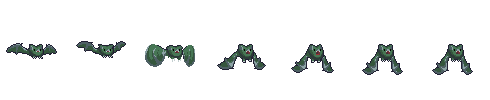
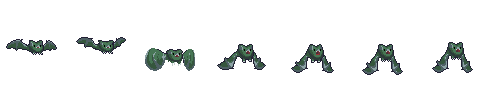
악세서리 수정 및 이미지 수정
악세서리 내용수정

Changed region(s): [[0.1531, 0.36, 0.398, 0.72], [0.8571, 0.42, 0.9796, 0.75], [0.0, 0.39, 0.1224, 0.6]]

diff --git a/Dungreed/watCher.cpp b/Dungreed/watCher.cpp
@@ -63,21 +63,17 @@ void watCher::update(Player * player, float const elapsedTime)
 	_ani->frameUpdate(elapsedTime);
 	_anglePos.x = cosf(_angle) * _radius;
 	_anglePos.y = -sinf(_angle) * _radius;
-	
-}
-
-void watCher::backRender(Player * player)
-{
-	
-	
 	_renderPos = player->getPosition();
 	_renderPos.x = _renderPos.x + _anglePos.x + 2;
 	_renderPos.y = _renderPos.y + _anglePos.y - 22;
 	Vector2 size = Vector2(_img->getFrameSize().x * 2, _img->getFrameSize().y * 2);
-	_crash = rectMakePivot(Vector2(_renderPos.x, _renderPos.y + 25), size, PIVOT::CENTER);
+	_crash = rectMakePivot(Vector2(_renderPos.x, _renderPos.y + 25), size, PIVOT::CENTER);	
+}
+
+void watCher::backRender(Player * player)
+{	
+	
 	D2D_RENDERER->drawRectangle(CAMERA->getRelativeFR(_crash));
-
-
 	_img->setScale(4);	
 	_img->aniRender(CAMERA->getRelativeV2(Vector2(_renderPos)), _ani, false);
 	

diff --git a/Dungreed/miniEarth.cpp b/Dungreed/miniEarth.cpp
@@ -35,22 +35,24 @@ void miniEarth::update(Player * player, float const elapsedTime)
 		_img->getMaxFrameX(), _img->getMaxFrameY());
 	_ani->setFPS(10);
 	_ani->setPlayFrame(0, _img->getMaxFrameX(), false, true);
+	_x = cosf(_angle) * 40;
+	_y = -sinf(_angle) * 40;
+
+	_renderPos = player->getPosition();
+	_renderPos.x = _renderPos.x + _x;
+	_renderPos.y = _renderPos.y + _y - 20;
 }
 
 void miniEarth::backRender(Player * player)
 {
-	_x = cosf(_angle) * 55;
-	_y = -sinf(_angle) * 55;
+	
 
-	Vector2 renderPos = player->getPosition();
-	renderPos.x = renderPos.x + _x;
-	renderPos.y = renderPos.y + _y - 20;
-	_img->setScale(4);
-	_img->aniRender(CAMERA->getRelativeV2(renderPos), _ani, false);
 }
 
 void miniEarth::frontRender(Player * player)
 {
+	_img->setScale(4);
+	_img->aniRender(CAMERA->getRelativeV2(_renderPos), _ani, false);
 }
 
 void miniEarth::displayInfo()

diff --git a/Dungreed/miniEarth.h b/Dungreed/miniEarth.h
@@ -5,7 +5,7 @@ class miniEarth : public Item
 private:
 	Image* _img;
 	Animation* _ani;
-
+	Vector2 _renderPos;
 	FloatRect _crash;
 	int _x, _y;
 	float _angle = PI / 4;

diff --git a/Dungreed/watCher.h b/Dungreed/watCher.h
@@ -10,7 +10,7 @@ private:
 	FloatRect _crash;
 	int _x, _y;
 	int _radius;
-	int _fspeed;
+	int _fspeed;	
 	float _angle = PI / 5;	
 	bool _setitem;
 public:

diff --git a/Dungreed/daisyRing.cpp b/Dungreed/daisyRing.cpp
@@ -54,4 +54,5 @@ void daisyRing::getHit(Vector2 const position)
 
 void daisyRing::equip(Player* player)
 {
+	
 }
